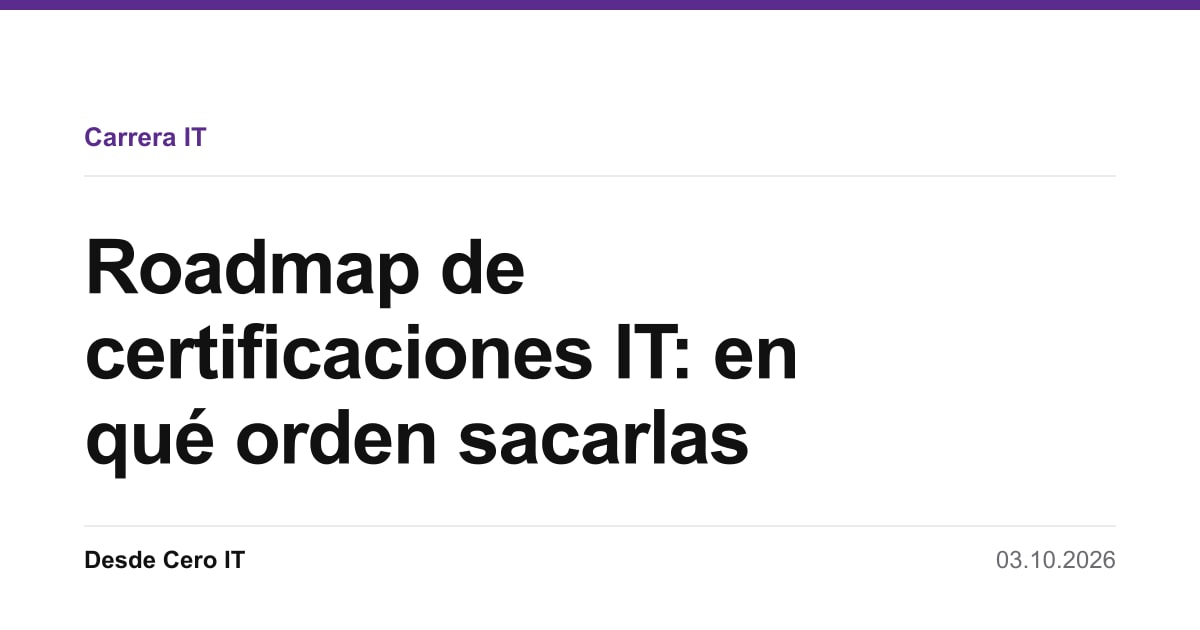
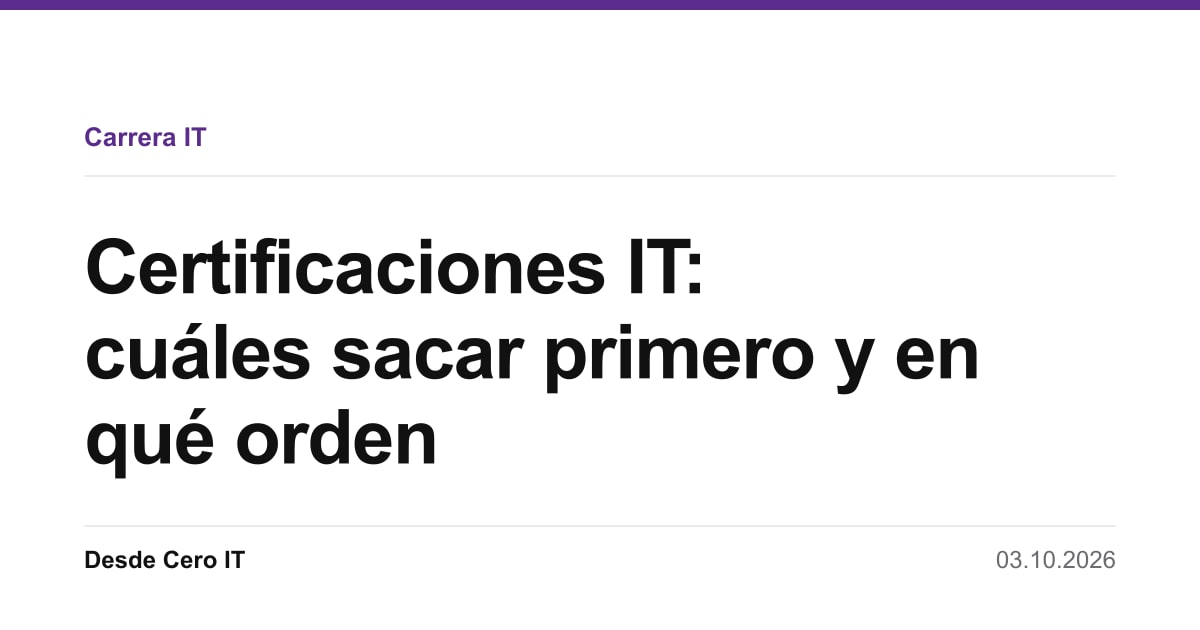
content/temario-roadmap-y-ccst-cyber

diff --git a/src/content/articles/redes/ccna-200-301-temario.md b/src/content/articles/redes/ccna-200-301-temario.md
@@ -1,10 +1,10 @@
 ---
 title: "CCNA 200-301: temario completo y dónde poner las horas"
-description: "Los seis dominios del blueprint v1.1 con sus pesos oficiales, qué entra en cada uno y la fecha en que esta versión del examen se retira."
+description: "Temario del CCNA 200-301 v1.1: los seis dominios con sus pesos oficiales (20, 20, 25, 10, 15 y 10%), qué entra en cada uno, dónde poner las horas y hasta cuándo se rinde."
 keyword: "ccna 200 301"
 cluster: "redes"
 pubDate: 2026-10-03
-updatedDate: 2026-10-24
+updatedDate: 2026-11-16
 author: "Valentín"
 draft: false
 ---
@@ -34,7 +34,7 @@ Los datos que importan:
 
 El dominio 3 solo, con su 25%, pesa más que los dominios 4 y 6 juntos. Y los tres primeros suman el 65% del examen.
 
-Eso tiene una consecuencia práctica clara: **subredes, VLANs, Spanning Tree, la tabla de enrutamiento y OSPF son donde cada hora de estudio devuelve más puntaje**. Repartir el tiempo en partes iguales entre los seis dominios —el error más común de planificación— deja mal cubierto justo lo que más pesa.
+Eso tiene una consecuencia práctica clara: **subredes, VLANs, Spanning Tree, la tabla de enrutamiento y OSPF son donde cada hora de estudio devuelve más puntaje**. Repartir el tiempo en partes iguales entre los seis dominios —el error más común de planificación— deja mal cubierto justo lo que más pesa. Las VLAN y el enrutamiento fueron, además, lo que más me costó en las materias de redes de ISTEA: la sección [CCNA desde cero](/redes/curso-ccna-como-prepararte/#ccna-desde-cero) los recorre paso a paso, con los errores más comunes.
 
 Eso no significa ignorar los dominios chicos. Automatización es solo el 10%, pero son temas compactos y muy preguntables: rinde repasarlos, no saltearlos.
 

diff --git a/src/content/articles/seguridad/ccst-cybersecurity-examen.md b/src/content/articles/seguridad/ccst-cybersecurity-examen.md
@@ -1,5 +1,5 @@
 ---
-title: "CCST Cybersecurity: examen 100-160, temario y precio"
+title: "CCST Cybersecurity: precio (US$125), temario y preparación"
 description: "Cómo es el examen CCST Cybersecurity de Cisco: 50 minutos, US$125 y en español. Sus cinco dominios, la vigencia de 5 años y qué certificación sigue después."
 keyword: "ccst cybersecurity"
 cluster: "seguridad"
